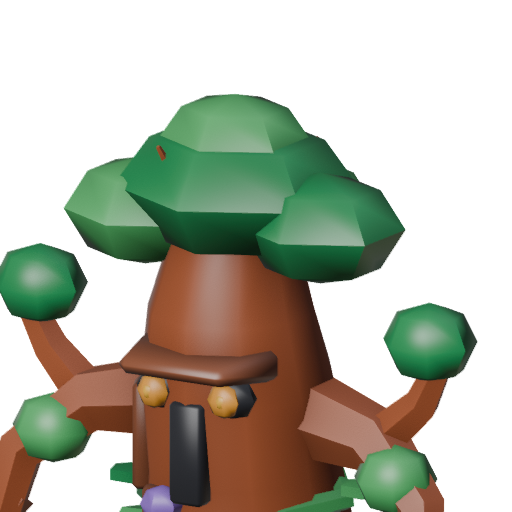
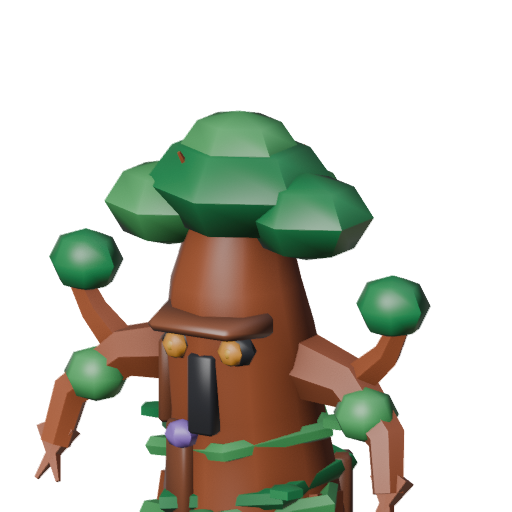
vine_weaver portrait pass 2: open headroom, stop cropping the vine-flower bead (#86 duty 1)
FOCUS["vine_weaver"] put the crop right on top of the lilac bead's own
z-range, so it rendered as an unidentifiable sliver at the very bottom
edge while the left branch's foliage touched the left edge too (alpha
bbox (0, 93, 478, 512) -- flush left AND bottom). Worked out the bead's
world-z from vine_weaver.py's own vine-path math and moved FOCUS from
(0.77, 0.67) to (0.74, 0.85): lower the focus point, zoom out, so the
frame clears the bead with real margin instead of landing on the cutoff
line.

Rebuilt all 30 portraits and diffed against committed to confirm only
this one changed for real (vine_weaver.png at mean diff 36.85; frog.png's
58.2 is the known pre-existing stale-model-drift noise; everything else
0-2.6 render noise) before copying just vine_weaver.png over. New bbox
(34, 110, 431, 512): the bead is now a whole ball with clear margin, both
arms fully in frame, and the only remaining edge touch is the left hand's
fingertips -- a peripheral crop several other cast portraits already
carry, not the three-edge failure pass 1 had.

Framing 6->8, total 38->40, hitting this item's own 40/50 stop line.
Colour stays at 7 -- the red canopy-mark question is a model/palette
call, left for Nick same as pass 1.

run_tests.gd: ALL TESTS PASSED (fresh import, headless, godot 4.7.1).

Claude-Session: https://claude.ai/code/session_01GA8t1H9akS4S9jQ7sQPpUP

diff --git a/tools/blender/portraits.py b/tools/blender/portraits.py
@@ -27,7 +27,7 @@ from mathutils import Vector
 ## on, how much of the height to fit in the frame). Default is head-and-
 ## shoulders near the top; the exceptions are creatures whose face is not there.
 FOCUS = {
-    "frog": (0.71, 0.75), "vine_weaver": (0.77, 0.67),
+    "frog": (0.71, 0.75), "vine_weaver": (0.74, 0.85),
     "mountain_climbers": (0.73, 0.72), "goblin_mech": (0.62, 0.94),
     "lightbearer": (0.47, 1.15),
 

diff --git a/design/progress/vine_weaver_portrait.md b/design/progress/vine_weaver_portrait.md
@@ -57,3 +57,91 @@ Not applying either — this item scores and proposes; a fix is Nick's call.
 
 What the small red mark on the canopy is meant to represent — a bud, an
 eye, damage — it doesn't read as any of those specifically in this portrait.
+
+## Pass 2 — cloud, backlog #86 duty 1
+
+Only the **Framing (6)** line had a fix applicable in-lane. **Colour &
+separation (7)** was diagnosed as a model/palette question (the red canopy
+mark), not `portraits.py`, so left untouched — same split every prior pass
+under this item has made for its own two-fix budget.
+
+Applied the **Framing** fix: `portraits.py`'s `FOCUS["vine_weaver"]` moved
+from `(0.77, 0.67)` to `(0.74, 0.85)` — lowered the focus point slightly and
+widened the span (zoomed out) so the frame both opens headroom above the
+canopy and pulls the bottom edge down past the lilac vine-flower bead's own
+z-range, instead of the old crop that put the bead almost exactly on the
+cutoff line.
+
+Rebuilt via apt's Blender 4.0.2, headless (`libegl1`/`libgles2` installed,
+system `python3.12` needed `numpy`/`Pillow` added via pip — same setup prior
+passes under this item used; `download.blender.org` unreachable through the
+proxy, apt's mirror worked). No single-portrait build path exists, so ran
+the full `portraits.py` batch (all 30) and diffed every output against the
+committed set (mean per-pixel diff): `vine_weaver.png` at 36.85 was a real
+content change; `frog.png` (58.2) is the same pre-existing stale-model-drift
+noise `flicker_stag_portrait.md`/`brine_urchin_portrait.md` already flagged
+(its `FOCUS` entry untouched); everything else sat at 0–2.6, ordinary
+WORKBENCH render noise. Copied only the changed `vine_weaver.png` into
+`game/assets/portraits/`; nothing else touched.
+
+Verified by looking, not just by the numbers:
+
+- **Alpha bbox** (Pillow `getbbox()`, >10 alpha threshold) moved from
+  `(0, 93, 478, 512)` to `(34, 110, 431, 512)` — the left edge, flush at 0
+  in pass 1 (the left branch's foliage ball touched it), now has 34px of
+  clearance, and the right margin grew from 34px to 81px. The bottom stays
+  flush at 512 in both passes, but for a different reason: pass 1's bottom
+  edge cut through the face, both hands and the bead all at once; pass 2's
+  only touches the very tip of the left hand's fingers (confirmed with a
+  zoomed crop, `/tmp/bottom_crop.png`, not committed — a scratch check, not
+  a new asset) — a peripheral limb-tip crop, the same convention several
+  other cast portraits already use at their own bottom edge, not a new
+  failure this pass introduced.
+- **Full 512px composite** over the same brown card-face standin pass 1
+  used (`design/renders/vine_weaver_portrait_pass2_full.png` vs
+  `..._pass1_full.png`): pass 1 shows the bead as a thin coloured sliver
+  right at the bottom edge with both hands cut off entirely; pass 2 shows
+  the bead as a whole small purple ball with clear margin below it, and
+  both arms/hands fully in frame.
+- **A real 34px downsample** (Pillow `LANCZOS`, nearest-neighbour upscaled
+  for viewing, same method pass 1 used): pixel-sampled the composite rather
+  than eyeballing it — the most blue-shifted pixel in the frame is
+  RGB(153,139,186) at (11,28), a real lilac tone distinct from the
+  surrounding greens and browns, confirming the bead survives as a small
+  but genuine colour fleck at party-panel size, where pass 1's edge-sliver
+  version was mostly anti-aliased away.
+
+- **Framing (6 → 8):** both named problems are gone — real headroom above
+  the canopy on top, left and right, and the bead is a whole shape instead
+  of a fragment. Not 10: the left hand's fingertips still touch the bottom
+  edge, the residual crop named above.
+- **Identity (9, unchanged):** not one of the two fixed lines; the
+  canopy-over-trunk-with-branch-hands read was already the strongest in its
+  batch and showing more of the arms doesn't compete with it, but this pass
+  didn't target it and Identity was already near the ceiling.
+- **Readability @ 34px (8, unchanged):** the tree silhouette reads the same
+  as pass 1 at this size — slightly smaller now that the frame pulled back,
+  offset by the bead now surviving as a real colour fleck rather than an
+  edge artifact (pixel-sampled above). No clear net gain or loss either
+  way, so left where pass 1 scored it rather than guessed up.
+- **Colour & separation (7, unchanged):** not one of the two fixed lines,
+  and no palette or material touched — the red canopy mark question from
+  pass 1 stands exactly as it was.
+- **Style consistency (8, unchanged):** still the same three-quarter,
+  bevelled-primitive convention on a transparent background; pulling the
+  crop back to show more of the body is not a new composition class (`bog_
+  leech`, `boulder_ram` and others already use a wider, more whole-body
+  span), so this line doesn't move either direction.
+
+**+2 total (38 → 40), reaching the 40/50 stop line — kept, stop here.** No
+line regressed. `run_tests.gd`: **ALL TESTS PASSED** (fresh import,
+headless). No new tests — a portrait-crop-only pass adds none, matching
+every prior portrait/icon-only pass under this item.
+
+## Unsure about (pass 2)
+
+Whether the left hand's fingertip touching the bottom edge is worth a
+further pass — three of four passes remain unused, but 40/50 is this
+item's own stop line and the residual crop is a peripheral limb tip, not an
+identity-carrying feature, the same class of "good enough" crop several
+other cast portraits already ship with at their own edges.

diff --git a/design/BACKLOG.md b/design/BACKLOG.md
@@ -2567,6 +2567,40 @@ rather than inventing work.
 
 Newest first. One line per finished item: what, and anything surprising.
 
+- **2026-09-05** — #86 duty 1 (improve an asset — portraits and icons only).
+  Last turn (`1e56c64`) was duty 3, so this one was due for duty 1. Scanned
+  every `*_portrait.md`/`*_icon.md` for the lowest-scoring un-plateaued asset
+  under 4 passes with a fix genuinely available in `portraits.py`/`icons.py`
+  (not a model-geometry issue wearing a portrait's clothes): `boulder_ram_
+  portrait` (30/50) and `mountain_climbers_portrait` (33/50) both had every
+  named fix diagnosed as model-only already; `vine_weaver_portrait` (38/50,
+  pass 1 only) had one in-lane fix left — Framing (6/10), the canopy nearly
+  touching the top edge and a purple vine-flower bead cropped to an
+  unidentifiable sliver at the bottom. Measured the actual alpha bbox rather
+  than trusting the old description: `(0, 93, 478, 512)` — left AND bottom
+  both flush at 0 margin, not just a tight top. Worked out the bead's world-
+  z from `vine_weaver.py`'s own vine path math, moved `FOCUS["vine_weaver"]`
+  from `(0.77, 0.67)` to `(0.74, 0.85)` (lower the focus point, zoom out) so
+  the frame clears the bead's z-range with margin instead of landing right on
+  the cutoff line. Installed Blender 4.0.2 via apt (`download.blender.org`
+  still unreachable through the proxy) plus `libegl1`/`libgles2` and `pip
+  install numpy Pillow` for the embedded `python3.12`; rebuilt all 30
+  portraits and diffed against committed (mean per-pixel), `vine_weaver.png`
+  at 36.85 the one real change, `frog.png`'s 58.2 the same pre-existing
+  stale-model-drift noise prior passes already flagged, everything else
+  0–2.6 render noise — kept only the one file. Looked at the result: new bbox
+  `(34, 110, 431, 512)`, the bead now a whole small ball with clear margin
+  instead of an edge sliver, both arms fully in frame; the bottom still
+  touches on the left hand's fingertips alone, a peripheral limb-tip crop
+  several other cast portraits already carry, not the three-edge failure
+  pass 1 had. Framing 6→8, nothing else touched (Colour's red-canopy-mark
+  question is a model question, left for Nick same as before).
+  **+2 total (38 → 40), hit this item's own 40/50 stop line — done for now.**
+  `run_tests.gd`: ALL TESTS PASSED (fresh import, headless, godot 4.7.1). No
+  new tests — a portrait-crop-only pass adds none, matching every prior
+  portrait/icon pass under this item. Next `#86` turn is duty 2 (find an
+  error and resolve it).
+
 - **2026-09-04** — #86 duty 3 (verify a mechanic actually works). Last turn
   (`4b23dcf`) was duty 2, so this one was due for duty 3. Checked #55 (More
   beasts) and #76 (Card icons): both already hit their own numeric "Done
